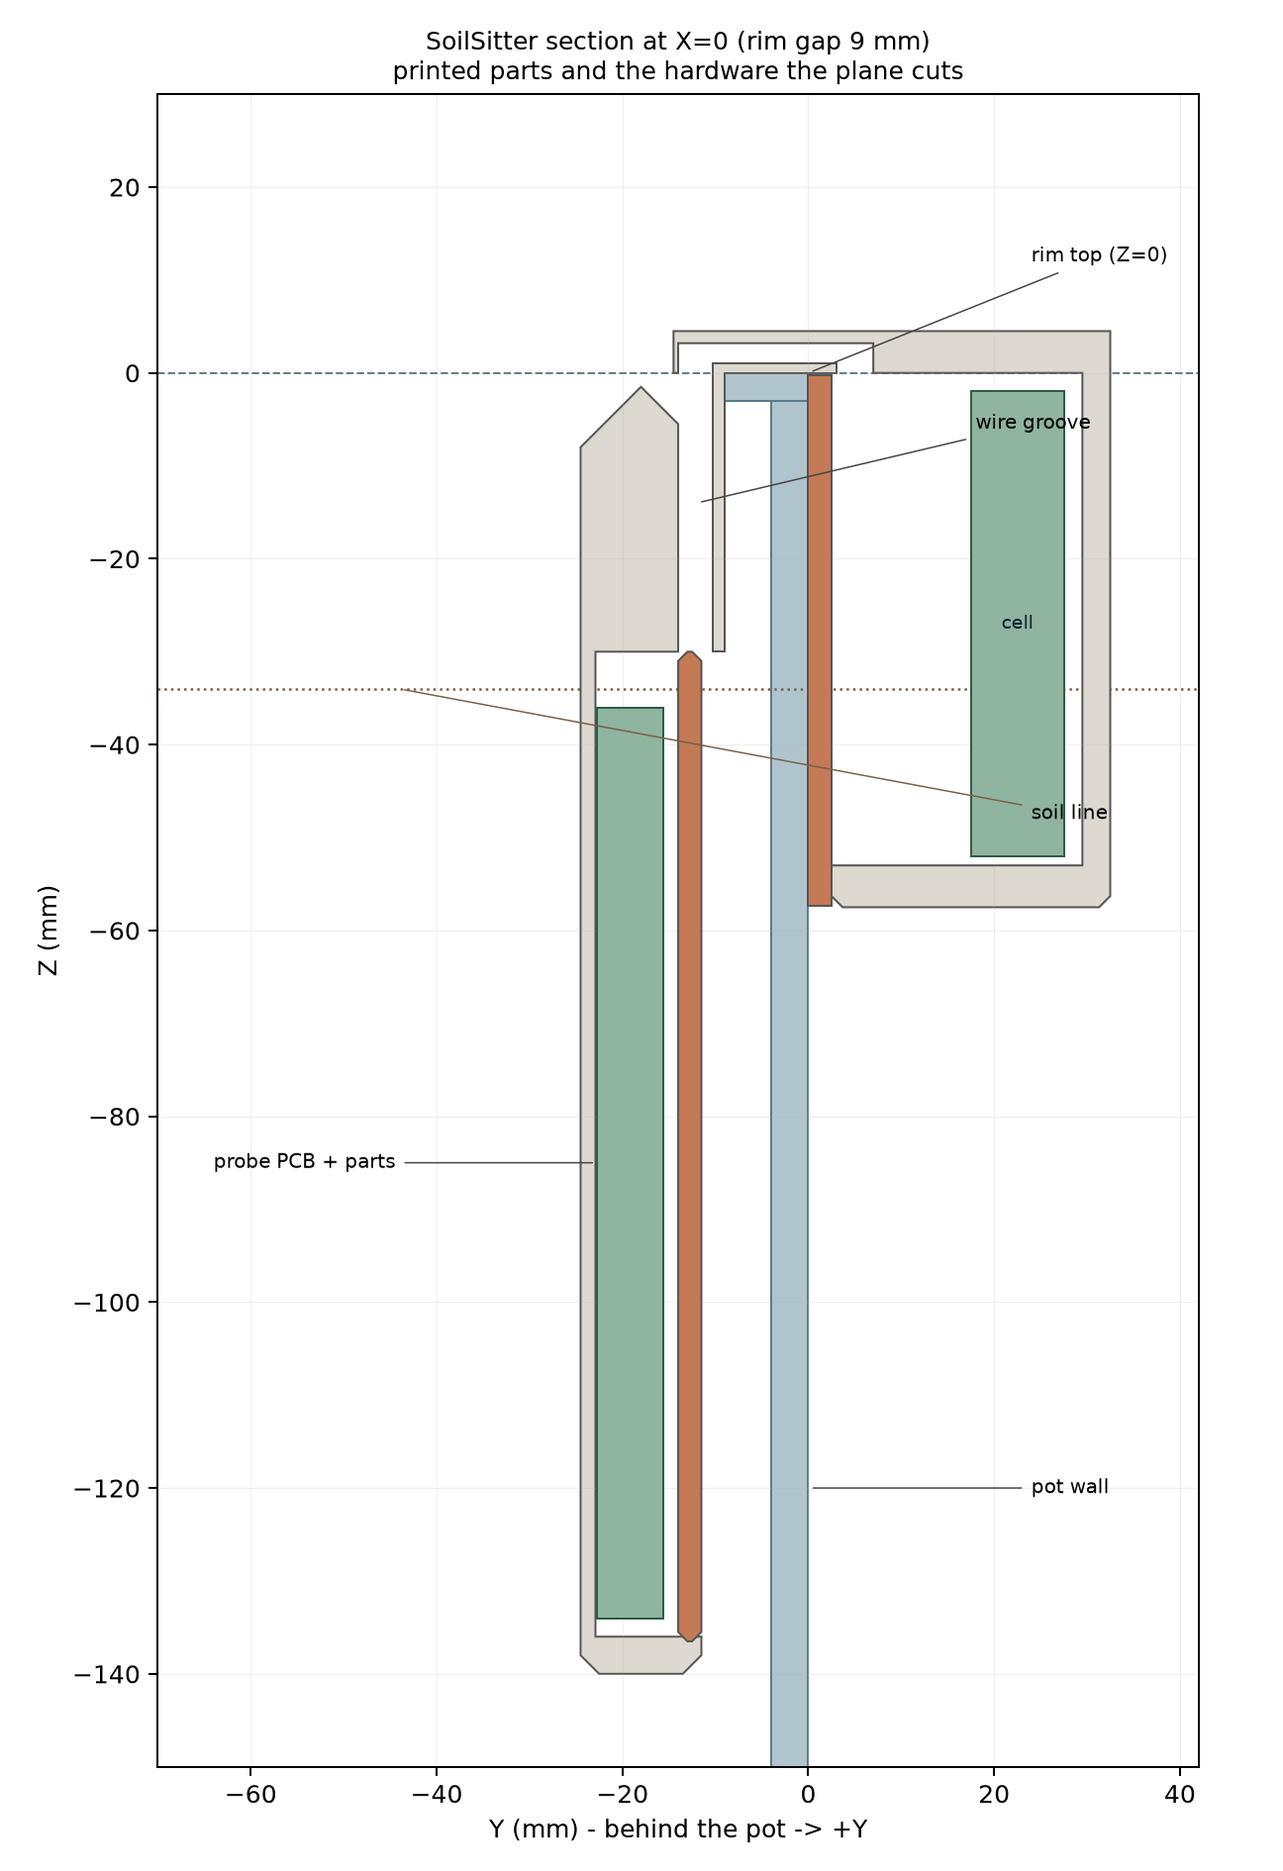
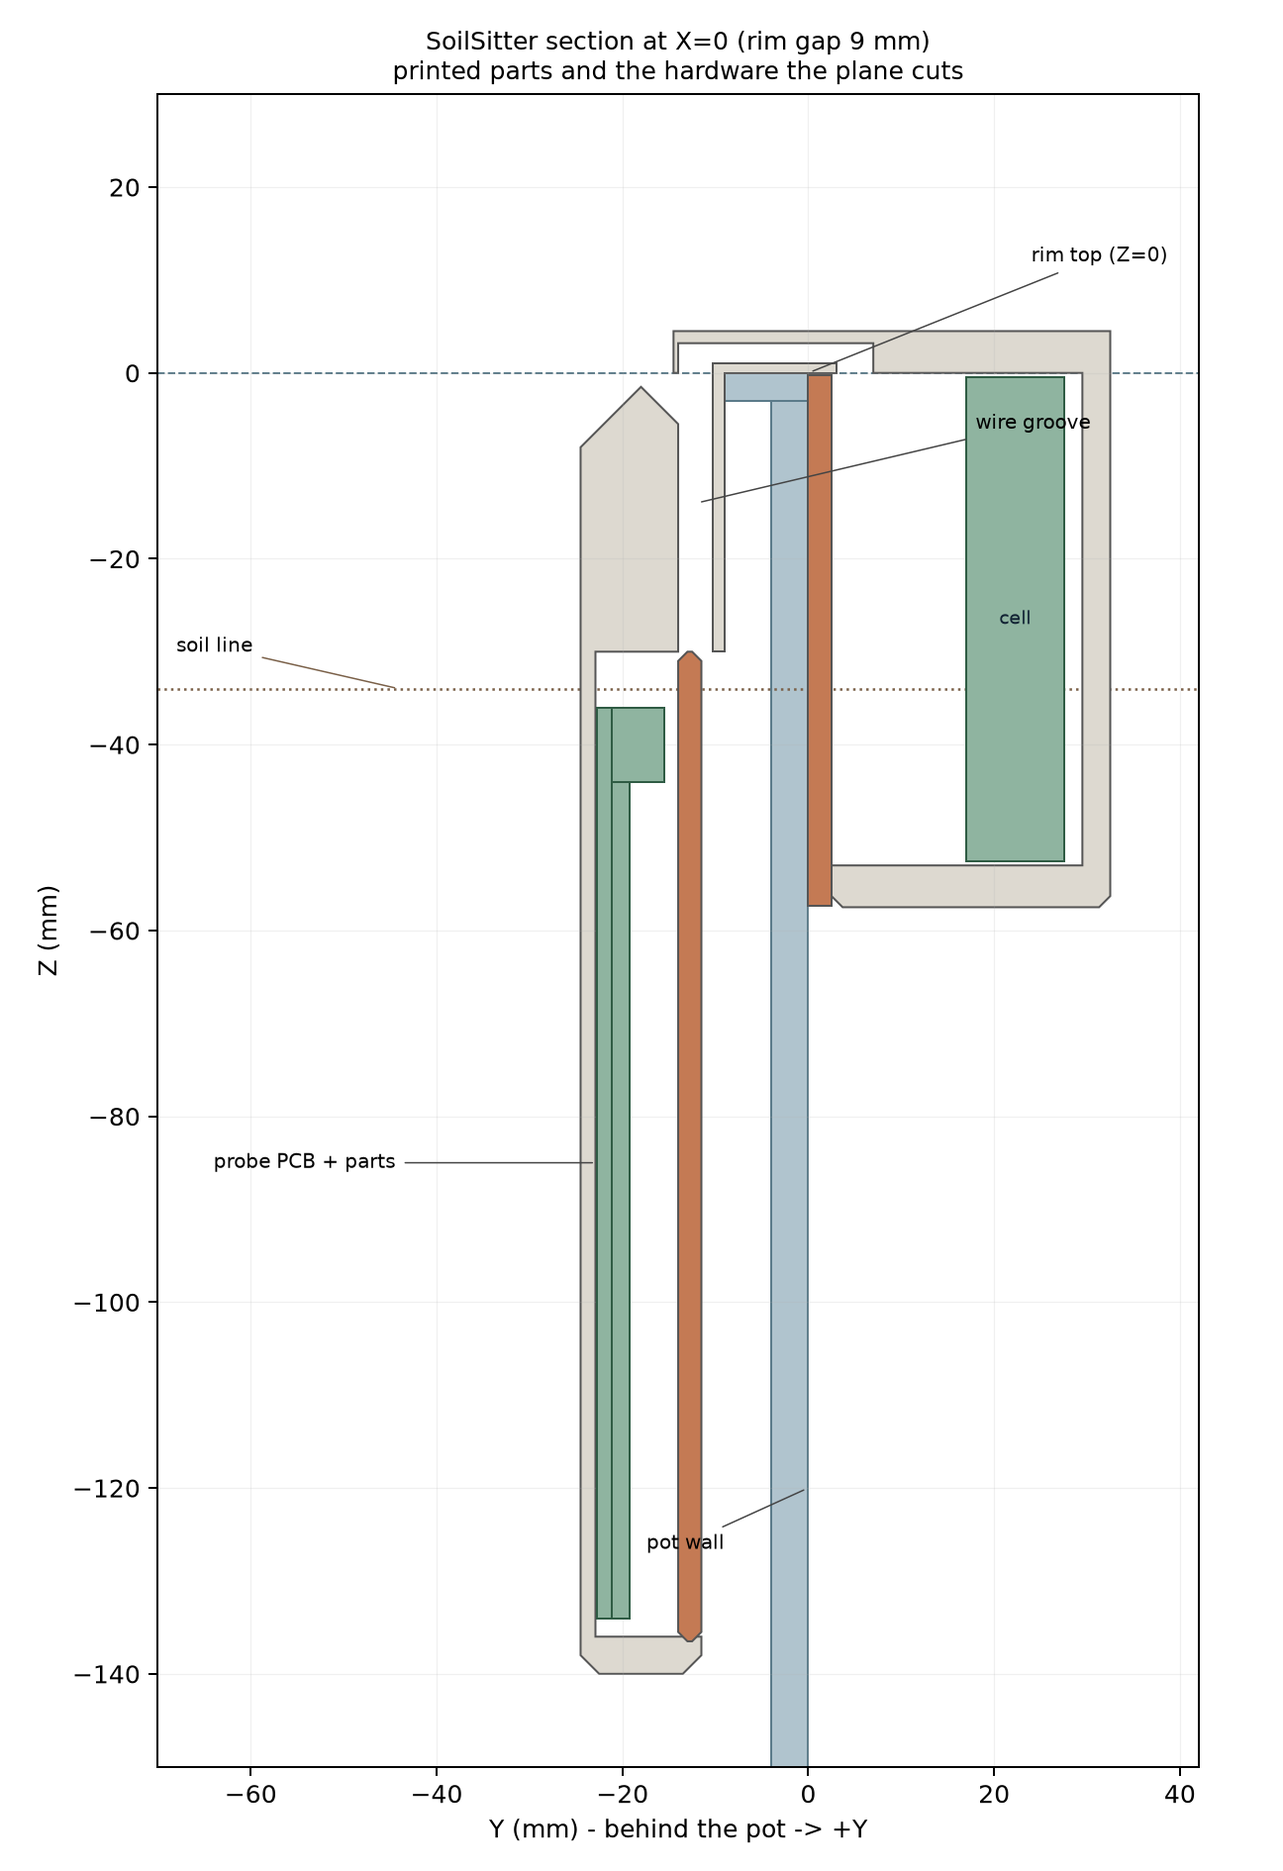
bring the diagrams and the assembly steps in line with the measured parts
- New docs/diagrams/bay_layout.png: plan view into the open bay, lid off, with
the SuperMini, TP4056, LDO, cell and pigtail labelled by X/Z band and Y depth.
Solid = taped to the lid, hatched = deeper in the bay. Generated from the same
HARDWARE boxes check_fit verifies, so drawing and check cannot diverge.
- render.py would have crashed on the new names: the colour map did
next(...) over prefixes with no ht7333 entry, and labels[name] indexed names
that no longer exist. Both now tolerate new parts.
- preview.py had a dead hardware_parts() no scene called - a second,
drifting source of part sizes. Removed.
- section.png regenerated; two leader lines that crossed the whole figure moved.
- ASSEMBLY gains a 'What goes where' table matching the drawing, and the steps
are corrected: cell stands against the back wall with leads up (not pressed
into the bay floor), LDO has a stated home, C3 antenna end specified, and the
6.6 mm connector envelope is checked before the probe goes in the sleeve.
- README gallery + repo tree updated.

Changed region(s): [[0.463, 0.4058, 0.5556, 0.8741], [0.7407, 0.1873, 0.8333, 0.4683], [0.8025, 0.7804, 0.8642, 0.8116]]

diff --git a/cad/render.py b/cad/render.py
@@ -3,7 +3,8 @@ The X=0 cutaway drawing: printed parts, the pot wall, the soil line and the real
 hardware the plane cuts through. The photographed-looking views are in
 cad/preview.py; this file is the technical drawing.
 
-  docs/diagrams/section.png
+  docs/diagrams/section.png     the X=0 cutaway
+  docs/diagrams/bay_layout.png   plan view of the open bay, lid off
 
     .venv-cad/bin/python cad/render.py
 """
@@ -120,7 +121,8 @@ def pot_meshes(rim_gap: float, depth: float = 95.0, height: float = 190.0):
 def hardware_meshes():
     out = []
     color = {"esp32": COLORS["board"], "tp4056": COLORS["charger"],
-             "lipo": COLORS["cell"], "usb": (90, 96, 110),
+             "ht7333": (94, 122, 62), "lipo": COLORS["cell"],
+             "usb": (90, 96, 110), "sensor-conn": (120, 96, 140),
              "sensor": COLORS["sensor"]}
     for name, (x0, x1, y0, y1, z0, z1, _) in HARDWARE.items():
         key = next(k for k in color if name.startswith(k))
@@ -185,8 +187,9 @@ def draw_section(rim_gap: float, path: Path):
     ax.axhline(-34, color="#7a6048", lw=1.0, ls=":", zorder=0.6)
 
     labels = {"esp32-c3-supermini": "SuperMini", "lipo-103450": "cell",
-              "tp4056": "TP4056", "usb-pigtail": "USB-C",
-              "sensor-pcb": "probe PCB", "sensor-parts": ""}
+              "tp4056": "TP4056", "ht7333": "LDO", "usb-pigtail": "USB-C",
+              "sensor-pcb": "probe PCB", "sensor-smd": "",
+              "sensor-connector": ""}
     for name, (x0, x1, y0, y1, z0, z1, _) in HARDWARE.items():
         if not (x0 <= 0.0 <= x1):
             continue          # this part is not on the X=0 plane
@@ -197,17 +200,17 @@ def draw_section(rim_gap: float, path: Path):
             ax.annotate("probe PCB + parts", (y0, (z0 + z1) / 2),
                         xytext=(-64, (z0 + z1) / 2), fontsize=8, va="center",
                         arrowprops=dict(arrowstyle="-", lw=0.6, color="#444"))
-        elif labels[name]:
+        elif labels.get(name):
             ax.annotate(labels[name], ((y0 + y1) / 2, (z0 + z1) / 2),
                         fontsize=7.5, ha="center", va="center", color="#123",
                         zorder=4)
 
-    ax.annotate("pot wall", (0, -120), xytext=(24, -120), fontsize=8,
-                va="center", arrowprops=dict(arrowstyle="-", lw=0.6,
-                                             color="#444"))
+    ax.annotate("pot wall", (0, -120), xytext=(-9, -126), fontsize=8,
+                va="center", ha="right",
+                arrowprops=dict(arrowstyle="-", lw=0.6, color="#444"))
     ax.annotate("rim top (Z=0)", (0, 0), xytext=(24, 12), fontsize=8,
                 arrowprops=dict(arrowstyle="-", lw=0.6, color="#444"))
-    ax.annotate("soil line", (-44, -34), xytext=(24, -48), fontsize=8,
+    ax.annotate("soil line", (-44, -34), xytext=(-68, -30), fontsize=8,
                 arrowprops=dict(arrowstyle="-", lw=0.6, color="#7a6048"))
     ax.annotate("wire groove", (-12.0, -14.0), xytext=(18, -6), fontsize=8,
                 arrowprops=dict(arrowstyle="-", lw=0.6, color="#444"))
@@ -226,10 +229,115 @@ def draw_section(rim_gap: float, path: Path):
     print(f"wrote {path.relative_to(ROOT)}")
 
 
+def draw_layout(rim_gap: float, path: Path):
+    """Plan view into the open bay: what goes where.
+
+    The bay is 27 mm deep, so a flat projection would show the cell on top of the
+    boards. Parts nearer the lid are solid; parts deeper in the bay are hatched,
+    and every label carries its Y band.
+    """
+    fig, ax = plt.subplots(figsize=(9.8, 7.2))
+
+    half, wall = ss.BAY_W / 2, ss.WALL_SIDE
+    z0, z1 = ss.BAY_BOT + ss.WALL_BOT, ss.BAY_TOP - ss.TOP_WALL
+    ax.add_patch(plt.Rectangle((-half, ss.BAY_BOT), ss.BAY_W, ss.BAY_H,
+                               facecolor="#e4e0d6", edgecolor="#8b867c", lw=1.0))
+    ax.add_patch(plt.Rectangle((-half + wall, z0), 2 * (half - wall), z1 - z0,
+                               facecolor="#fbfaf7", edgecolor="#6f6a60", lw=1.0))
+
+    # lid screw bosses first, so they never cover a part
+    for sx in (-ss.BOSS_X, ss.BOSS_X):
+        ax.add_patch(plt.Rectangle((sx - 5, ss.LID_BOT_SCREW_Z - 5), 10, 10,
+                                   facecolor="none", edgecolor="#a8341f",
+                                   lw=1.0, ls=(0, (3, 2)), zorder=2))
+        ax.plot([sx], [ss.LID_TOP_SCREW_Z], marker="+", ms=9, mew=1.4,
+                color="#a8341f", zorder=2)
+
+    # deep layer: behind the boards
+    deep = {"lipo": ("#b9b3a6", "//"), "usb": ("#c9c6c0", "xx")}
+    for name, (px0, px1, _, _, pz0, pz1, _) in HARDWARE.items():
+        key = next((k for k in deep if name.startswith(k)), None)
+        if key is None:
+            continue
+        fill, hatch = deep[key]
+        ax.add_patch(plt.Rectangle((px0, pz0), px1 - px0, pz1 - pz0,
+                                   facecolor=fill, edgecolor="#4a4a52", lw=1.0,
+                                   hatch=hatch, alpha=0.85, zorder=3))
+
+    fill_deep_txt = "#2b2b33"
+    ax.text(-0.5, -26, "103450 cell\n35 x 52\nY 17-28", color=fill_deep_txt,
+            fontsize=9, ha="center", va="center", zorder=6, linespacing=1.35,
+            bbox=dict(boxstyle="round,pad=0.25", fc="white", ec="none", alpha=0.75))
+
+    # near layer: taped to the lid
+    near = {"esp32": ((38, 92, 66), "SuperMini\n22.5 x 18\nY 3-8"),
+            "tp4056": ((30, 60, 120), "TP4056\n29 x 17\nY 3-7"),
+            "ht7333": ((93, 122, 62), "")}
+    for name, (px0, px1, _, _, pz0, pz1, _) in HARDWARE.items():
+        key = next((k for k in near if name.startswith(k)), None)
+        if key is None:
+            continue
+        rgb, text = near[key]
+        ax.add_patch(plt.Rectangle((px0, pz0), px1 - px0, pz1 - pz0,
+                                   facecolor=[c / 255 for c in rgb],
+                                   edgecolor="#20242a", lw=0.9, zorder=4))
+        if text:
+            ax.text((px0 + px1) / 2, (pz0 + pz1) / 2, text, color="white",
+                    fontsize=8, ha="center", va="center", zorder=6,
+                    linespacing=1.35)
+
+    ldo = HARDWARE["ht7333"]
+    ax.annotate("HT7333 LDO\nY 3-7", ((ldo[0] + ldo[1]) / 2, (ldo[4] + ldo[5]) / 2),
+                xytext=(-16, -12), fontsize=7.5, color="#2d4a18", zorder=7,
+                bbox=dict(boxstyle="round,pad=0.22", fc="white", ec="none", alpha=0.85),
+                arrowprops=dict(arrowstyle="-", lw=0.8, color="#3d5a20"))
+
+    r = ss.CHARGE_PORT_D / 2
+    ax.add_patch(plt.Circle((ss.CHARGE_PORT_X, ss.CHARGE_PORT_Z), r, fill=False,
+                            edgecolor="#33404a", lw=1.3, ls=(0, (2, 2)), zorder=5))
+    ax.annotate("M16 charge port\nthrough the back wall",
+                (ss.CHARGE_PORT_X + r * 0.72, ss.CHARGE_PORT_Z),
+                xytext=(ss.CHARGE_PORT_X, ss.CHARGE_PORT_Z - 13), fontsize=7.5,
+                color="#33404a", zorder=7, ha="center",
+                bbox=dict(boxstyle="round,pad=0.22", fc="white", ec="none", alpha=0.85),
+                arrowprops=dict(arrowstyle="-", lw=0.7, color="#33404a"))
+
+    ax.annotate("probe cable notch (X 0)", (0.0, z1), xytext=(16, 5), fontsize=7.5,
+                color="#444", zorder=7,
+                bbox=dict(boxstyle="round,pad=0.22", fc="white", ec="none", alpha=0.85),
+                arrowprops=dict(arrowstyle="-", lw=0.6, color="#444"))
+    ax.annotate("lid screw boss x2\n(+ = top wall screws)",
+                (-ss.BOSS_X + 5, ss.LID_BOT_SCREW_Z - 5),
+                xytext=(-half - 7.5, ss.BAY_BOT - 4.0), fontsize=7.5,
+                color="#8d2b19", zorder=7,
+                bbox=dict(boxstyle="round,pad=0.22", fc="white", ec="none", alpha=0.85),
+                arrowprops=dict(arrowstyle="-", lw=0.6, color="#a8341f"))
+
+    ax.text(0, z0 - 8.0,
+            "solid = taped to the lid    hatched = deeper in the bay (cell, pigtail)",
+            fontsize=8, ha="center", va="top", color="#4d4a44")
+
+    ax.set_xlim(-half - 10, half + 6)
+    ax.set_ylim(ss.BAY_BOT - 14, ss.BAY_TOP + 2.5)
+    ax.set_aspect("equal")
+    ax.set_xlabel("X (mm)")
+    ax.set_ylabel("Z (mm)")
+    ax.grid(alpha=0.15, lw=0.5)
+    ax.set_title(f"Bay layout with the lid off (rim gap {rim_gap:g} mm): "
+                 f"{2 * (half - wall):.0f} x {z1 - z0:.0f} mm against the lid\n"
+                 "the lid carries the boards, so this is its inner face",
+                 fontsize=10)
+    fig.tight_layout()
+    fig.savefig(path, dpi=180)
+    plt.close(fig)
+    print(f"wrote {path.relative_to(ROOT)}")
+
+
 def main():
     """The cutaway drawing only: cad/preview.py owns the photographic views."""
     rim_gap = float(sys.argv[1]) if len(sys.argv) > 1 else ss.RIM_GAP
     draw_section(rim_gap, OUT / "section.png")
+    draw_layout(rim_gap, OUT / "bay_layout.png")
 
 
 if __name__ == "__main__":

diff --git a/cad/preview.py b/cad/preview.py
@@ -374,21 +374,6 @@ def plant_parts(r_out: float = 74.0, soil_top: float = -30.0, leaves: int = 9,
     return out
 
 
-def hardware_parts():
-    """The real electronics, from the fit check's own boxes."""
-    from check_fit import HARDWARE
-    out = []
-    for name, (x0, x1, y0, y1, z0, z1, _) in HARDWARE.items():
-        colour = (C_BOARD if name.startswith("esp32") else
-                  C_METAL if name.startswith("usb") else
-                  C_CELL if name.startswith("lipo") else
-                  (28, 58, 116) if name.startswith("tp") else (146, 92, 158))
-        m = trimesh.creation.box(extents=(x1 - x0, y1 - y0, z1 - z0))
-        m.apply_translation(((x0 + x1) / 2, (y0 + y1) / 2, (z0 + z1) / 2))
-        out.append((m, colour))
-    return out
-
-
 # ---------------------------------------------------------------------------
 # labels and compositing
 # ---------------------------------------------------------------------------

diff --git a/docs/ASSEMBLY.md b/docs/ASSEMBLY.md
@@ -1,7 +1,8 @@
 # Assembly
 
-Three printed parts, two gaskets, four screws. About 45 minutes of assembly once
-the print is off the bed, most of it waiting for silicone to cure.
+Five printed parts — three structural, two gaskets — and four screws. About 45
+minutes of assembly once the print is off the bed, most of it waiting for silicone
+to cure.
 
 ## Print settings
 
@@ -64,6 +65,28 @@ cuts the thread and burnishes the hole; doing it with the gasket in place tends 
 skew the screw and strip the pilot. If a pilot strips, a drop of CA glue and three
 minutes will hold it for another cycle.
 
+## What goes where
+
+![The open bay, lid off: where each board sits](diagrams/bay_layout.png)
+
+Everything but the cell and the pigtail is taped to the **lid's inner face**, so
+opening the case lifts the whole electronics stack out in one piece and nothing has
+to be unscrewed to get at it. The bay is 27 mm deep, which is why the cell and the
+pigtail — hatched in the drawing — sit behind the boards rather than under them.
+
+| Part | Where (X, Z) | Depth (Y) | Notes |
+|---|---|---|---|
+| SuperMini | X −38…−20, Z −33…−11 | 3–8 | left of the bay, antenna end up, 3.0 mm clear of the wall |
+| TP4056 | X 2…31, Z −21…−4 | 3–7 | right of centre; its USB-C faces the pigtail's lead, 0.8 mm clear of the screw boss |
+| HT7333 | X −10…−5.5, Z −20…−18.5 | 3–7 | in between the two, 1.5 mm thick, flat to the lid |
+| 103450 cell | X −17.5…17.5, Z −52…0 | 17–28 | standing on the floor against the back wall, ~10 mm behind the boards |
+| M16 pigtail | X −40…−20, Z −50…−30 | 16–30 | over the port in the back wall, nut inside |
+| probe PCB | in the sleeve, Z −134…−36 | — | sensing face against the 1.6 mm front wall |
+
+Those are the same numbers `cad/check_fit.py` verifies, and the same boxes the
+drawings are made from, so a part that grows shows up here and in the check at the
+same time.
+
 ## Step by step
 
 1. **Test the electronics outside the case.** Flash the firmware, confirm Wi-Fi and
@@ -73,19 +96,27 @@ minutes will hold it for another cycle.
    out the probe cavity; a stray string of PETG will stop the probe seating.
 3. **Dry-fit the probe.** Slide the V1.2 board into the sleeve from the bottom,
    sensing face towards the 1.6 mm front wall. It should go in with light thumb
-   pressure and stop against the collar at Z ≈ −30 mm. If it binds, the cavity
+   pressure and stop against the collar at Z ≈ −30 mm. **Check the connector first:**
+   the sleeve leaves 6.6 mm above the PCB before the cap's inner face, so a JST-PH
+   socket (5.6 mm) is fine and a straight 2.54 mm header (~8.5 mm) is not — desolder
+   it or fit a right-angle one ([FIT.md](FIT.md)). If the board binds, the cavity
    floor has a blob — file it, do not force the board, the electrode is a thin
-   copper pour and it will crease.
+   copper pour and it will crease. The [X=0 cutaway](diagrams/section.png) shows
+   how tight that stack is.
 4. **Seat the C3 in the bay.** It goes on the lid, not the body: three 3 mm foam
    tape pads under its two long edges (clear of the USB-C shell), then press it
-   onto the lid's inner face with the antenna away from the battery. Taped to the
+   onto the lid's inner face, antenna end up (towards the bay's top edge) and away
+   from the cell and the metal pigtail. Taped to the
    lid means the whole stack lifts out when you open the case. The 3 mm tape
    thickness is what the fit check assumes, so keep it under 3.5 mm.
-5. **Battery.** Foam tape on the back of the pouch, then press it into the bay
-   floor with the leads towards the charge board. The cell must not sit on the
-   TP4056 — that board gets warm while charging.
-6. **Charge board and LDO.** Same 3 mm foam tape, on the lid to the right of the
-   C3 — **not** at the bottom-left corner, which is a lid screw boss. The pigtail's
+5. **Battery.** Foam tape on the *back* of the pouch, then stand it on the bay
+   floor against the back wall with its leads out of the top, towards the charge
+   board. It is 52 mm tall in a 53 mm bay, so it will touch both ends — that is
+   the fit, not a mistake. It sits ~10 mm behind the boards, which is deliberate:
+   the TP4056 gets warm while charging and the pouch should not be against it.
+6. **Charge board and LDO.** Same 3 mm foam tape. The LDO sits between the C3 and
+   the charger (X −10…−5.5); the charger goes to the right of centre, Z −21…−4 —
+   **not** at the bottom-left corner, which is a lid screw boss. The pigtail's
    lead crosses the bay to reach the charger's USB-C; plug it in *before* you tape
    the board down (the connector is easier to seat with the board loose) and dress
    the lead flat against the lid so the lid still closes.

diff --git a/CHANGELOG.md b/CHANGELOG.md
@@ -1,6 +1,39 @@
 # Changelog
 
-## 1.0.3 — 2026-11-20
+## 1.0.4 — 2026-11-20
+
+**Diagrams and assembly instructions brought in line with the measured hardware.**
+
+The photographic renders were never wrong — they draw only the five printed parts —
+but the technical drawing was, and nothing showed the inside of the bay, which is
+what half of ASSEMBLY talks about.
+
+- **New `docs/diagrams/bay_layout.png`**: plan view into the open bay with the lid
+  off, showing where the SuperMini, TP4056, LDO, 103450 cell and M16 pigtail go,
+  each labelled with its X/Z band *and* its Y depth. Solid parts are taped to the
+  lid; hatched parts sit deeper. It is generated from the same `HARDWARE` boxes
+  `check_fit.py` verifies, so the drawing cannot drift from the check.
+- **`cad/render.py` would have crashed** on the new hardware names: the colour map
+  used `next(...)` over name prefixes and had no entry for `ht7333`, and the label
+  dict was indexed with `labels[name]` for names that no longer existed. It now
+  uses explicit maps with lookups that tolerate new parts.
+- `section.png` regenerated with the corrected boxes; the two leader lines that
+  crossed the whole figure (soil line, pot wall) were moved out of the way.
+- **`preview.py` had a dead `hardware_parts()`** that no scene called — 17 lines of
+  a second, silently-drifting source of part sizes. Removed; `render.py` is the one
+  place that draws hardware.
+- **ASSEMBLY.md** now opens its build steps with a "What goes where" table (X, Z,
+  depth, notes per part) that matches the drawing, and the steps were corrected:
+  the cell stands on the floor against the **back wall** with its leads out of the
+  top (it was "press it into the bay floor"), the LDO has a stated home between the
+  two boards, the C3's antenna end is specified, and step 3 now checks the 6.6 mm
+  connector envelope *before* the probe goes into the sleeve rather than after.
+- README gallery and repo tree updated; `cad/preview.py`/`render.py` description
+  corrected to say render.py draws two figures now.
+
+All six photographic views re-rendered from the current STLs, `check_fit` passes
+for rims 6/9/12, `esphome config` valid.
+
 
 **Checked the models against the actual Amazon listings.** 1.0.2 measured the parts;
 this checks whether those measurements describe the ASINs the BOM links. Answer:

diff --git a/README.md b/README.md
@@ -60,6 +60,12 @@ counterbalances the probe.
 
 ![Cutaway through X=0: printed parts, pot wall, soil and the hardware](docs/diagrams/section.png)
 
+![Bay layout with the lid off: the SuperMini, TP4056, LDO, cell and pigtail, with the depths they sit at](docs/diagrams/bay_layout.png)
+
+*The lid carries the boards, so the drawing above is its inner face: solid parts are
+taped to it, hatched parts sit deeper in the 27 mm bay. Those are the same boxes
+`cad/check_fit.py` checks.*
+
 *Rendered from the exported STLs by `cad/preview.py` and `cad/render.py`, with the
 real hardware boxes from `cad/check_fit.py`; no photographs, no manual retouching.*
 
@@ -71,11 +77,12 @@ cad/            parametric build123d model, fit checks, renderers
   check_fit.py    watertightness, packing, clearance, wire-route checks
   orient.py       picks each part’s print orientation, writes stl/print/
   preview.py      photoreal previews: hero, exploded, mounted, room, views, plate
-  render.py       the X=0 cutaway drawing
+  render.py       the X=0 cutaway and the bay layout drawing
 stl/            STLs in assembly orientation + manifest_rim<N>.json
   print/          the same parts pre-rotated for printing + manifest.json
 firmware/       soilsitter.yaml, secrets.yaml.example
-docs/           BOM, wiring, assembly, calibration, usage, integration
+docs/           BOM, FIT (measured sizes), wiring, assembly, calibration,
+                usage, integration
 tools/          build.sh, validate.sh
 ```
 
